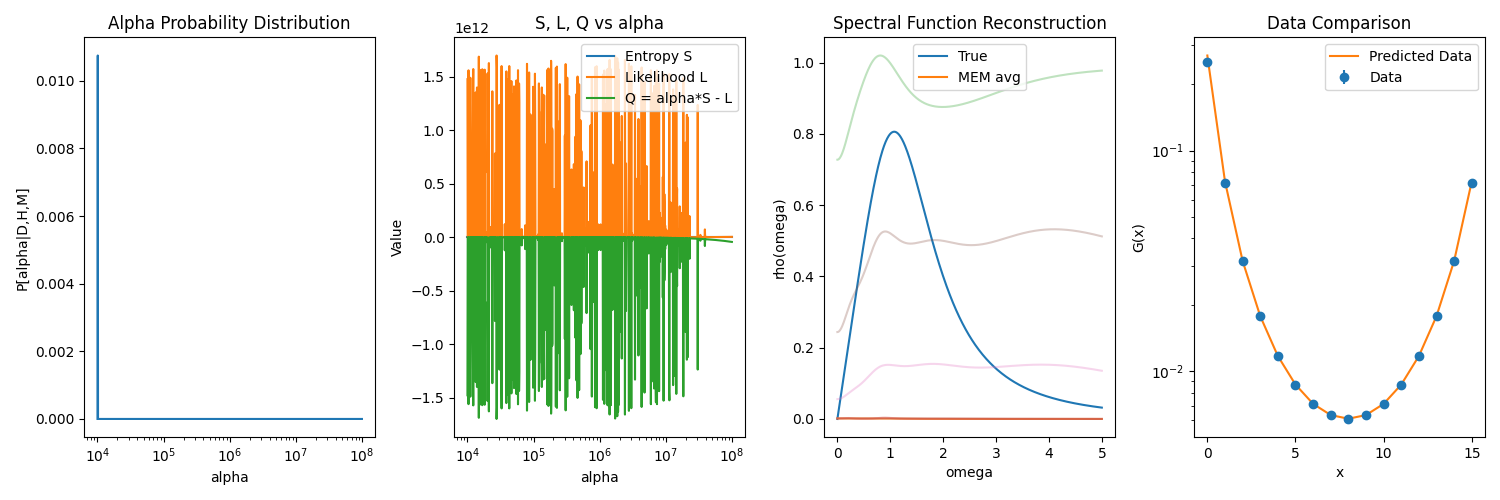
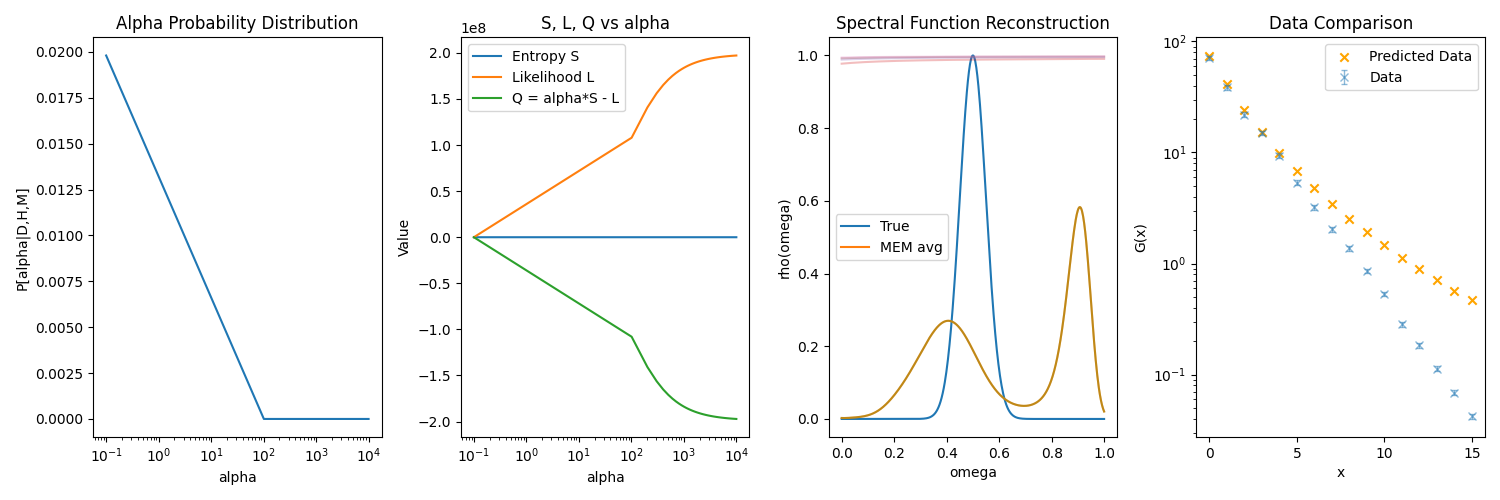
some changes to mem and playing around with the ex file

diff --git a/mem_ex.py b/mem_ex.py
@@ -3,6 +3,7 @@
 import numpy as np
 from scipy.optimize import root
 from scipy.linalg import svd
+from scipy.optimize import least_squares
 np.random.seed(3000)
 
 def KL_kernel_Position_FiniteT(Position, Omega,T):
@@ -53,8 +54,8 @@ def mem_bryan(K, d, m, alpha, err, max_iter=100):
     # Reduced space
     N_red = len(s)
     # Initial guess
-    #u0 = np.zeros(N_red)
-    u0 = np.random.rand(N_red)*0.1
+    u0 = np.zeros(N_red)
+    #u0 = np.random.rand(N_red)*0.1
 
     def func(u):
         # rho in model space
@@ -62,19 +63,23 @@ def mem_bryan(K, d, m, alpha, err, max_iter=100):
         # G = K @ rho
         G = K @ rho
         # Gradient in reduced space
-        grad = -alpha * u - np.diag(s) @ U.T @ np.diag(1/err**2) @ (G - d)
+        grad = -alpha * u - U.T @ (G - d)
         return grad
 
     def jac(u):
         rho = m * np.exp(Vh.T @ u)
         J = -alpha * np.eye(N_red)
-        J -= np.diag(s) @ U.T @ np.diag(1/err**2) @ K @ np.diag(rho) @ Vh.T
+        J -= U.T @ K @ np.diag(rho) @ Vh.T
         return J
+    
+    sol = root(func, u0, jac=jac, method='hybr', options={'maxfev': max_iter, 'xtol':1e-10})
 
-    sol = root(func, u0, jac=jac, method='lm')
-    print(sol.success)
-    print(sol.nfev)
-    print(sol.message)
+    if not sol.success:
+        print("Not converged:")
+        print(alpha)
+        print(sol.nfev)
+        print(sol.message)
+
     u_opt = sol.x
     rho_opt = m * np.exp(Vh.T @ u_opt)
     return rho_opt
@@ -122,18 +127,32 @@ def read_rho_data(filename):
 
 # Example usage:
 if __name__ == "__main__":
-    x, d, err = read_corr_data("/mnt/c/Users/chris/Desktop/mock-data-main/BW/mock_corr_BW_Nt16_noise3.dat")
-    omega, rho_true = read_rho_data("/mnt/c/Users/chris/Desktop/mock-data-main/BW/exact_spectral_function_BW.dat")
-    N_model = len(omega)
-    N_data = len(x)
+    realistic = False
+    if realistic:
+        x, d, err = read_corr_data("/mnt/c/Users/chris/Desktop/mock-data-main/BW/mock_corr_BW_Nt16_noise3.dat")
+        omega, rho_true = read_rho_data("/mnt/c/Users/chris/Desktop/mock-data-main/BW/exact_spectral_function_BW.dat")
+        N_model = len(omega)
+        N_data = len(x)
 
-    K=KL_kernel_Omega(KL_kernel_Position_FiniteT,x,omega,args=(1/N_data,))
-
+        K=KL_kernel_Omega(KL_kernel_Position_FiniteT,x,omega,args=(1/N_data,))
+    else:
+        N_data = 16
+        N_model = 500
+        x = np.linspace(0, 15, N_data)
+        omega = np.linspace(0, 1, N_model)
+        # Kernel: exponential decay
+        K = np.exp(-x[:, None] * omega[None, :])
+        # True spectral function: Gaussian
+        rho_true = np.exp(-0.5 * (omega - 0.5)**2 / 0.05**2)
+        # Data: K @ rho_true + noise
+        d = K @ rho_true
+        err = 0.05 * d * np.ones_like(d)
+        d = d + np.random.normal(0, err)
     m = np.ones(N_model)
     #m *= omega**2
     #m /= np.trapezoid(m, omega)
     # Regularization parameter
-    alpha = np.logspace(0,5,1000)
+    alpha = np.linspace(1e-1,1e4,100)
     rho_mem = np.zeros((len(alpha), N_model))
     # Run MEM
     for i in range(len(alpha)):
@@ -146,16 +165,22 @@ if __name__ == "__main__":
         S[i] = np.sum(rho - m - rho * np.log(rho / m))
         G = K @ rho
         diff = G - d
+        print(S[i])
         L[i] = 0.5 * np.sum((diff / err)**2)
 
     Q = alpha * S - L
-    hessian_eigenvalues = np.zeros((len(alpha), len(rho_mem[0])))
+    """hessian_eigenvalues = np.zeros((len(alpha), len(rho_mem[0])))
     P_alpha = np.zeros(len(alpha))
     for i in range(len(alpha)):
         Hessian = np.sqrt(np.diag(rho_mem[i])) @ K.T @ np.diag(1/err**2) @ K @ np.sqrt(np.diag(rho_mem[i]))
         hessian_eigenvalues[i, :len(np.linalg.eigvalsh(Hessian))] = np.linalg.eigvalsh(Hessian)
     
-    P_alpha, alpharegion = compute_P_alpha(alpha, S, L, hessian_eigenvalues)
+    P_alpha, alpharegion = compute_P_alpha(alpha, S, L, hessian_eigenvalues)"""
+    P_alpha = np.exp(Q - np.max(Q))  # For numerical stability
+    P_alpha /= np.trapz(P_alpha, alpha)  # Normalize
+
+    # Weighted average over alpha
+    alpharegion = alpha
 
     rho_final = np.trapezoid(rho_mem.T * P_alpha, alpharegion, axis=1)
 
@@ -186,8 +211,8 @@ if __name__ == "__main__":
     plt.ylabel('rho(omega)')
     plt.title('Spectral Function Reconstruction')
     plt.subplot(1,4,4)
-    plt.errorbar(x, d, yerr=err, fmt='o', label='Data')
-    plt.plot(x, K @ rho_final, label='Predicted Data')
+    plt.errorbar(x, d, yerr=err, fmt='x', label='Data', alpha=0.5, capsize=2, elinewidth=1)
+    plt.scatter(x, K @ rho_final, label='Predicted Data', marker = 'x', color='orange')
     plt.legend()
     plt.xlabel('x')
     plt.ylabel('G(x)')

diff --git a/mem/mem.py b/mem/mem.py
@@ -116,9 +116,6 @@ class mem:
             raise ValueError("Invalid choice spectral function target")
         return kernel
 
-    def partialL_partialG(self, G_rho: np.ndarray, corr: np.ndarray)-> np.ndarray:
-        return np.dot(self.cov_mat_inv, (G_rho - corr))
-
     def step1(self, corr: np.ndarray, kernel: np.ndarray) -> np.ndarray:
         V, xi, U = np.linalg.svd(kernel, full_matrices=False)
         U= U.T
@@ -128,13 +125,11 @@ class mem:
         U = U[:,:s]
         print("Singular space dimension:", s, "down from:", min(self.N_t, len(self.w)))
 
-        VXi = np.dot(V, np.diag(xi))
+        VXi = V @ np.diag(xi)
 
-        M = np.dot(VXi.T, np.dot(self.cov_mat_inv, VXi))
+        M = VXi.T @ self.cov_mat_inv @ VXi
         rho_min = np.zeros((len(self.alpha), len(self.w)))
-        S = np.zeros(len(self.alpha))
-        L = np.zeros(len(self.alpha))
-        Q = np.zeros(len(self.alpha))
+        S, L, Q = np.zeros(len(self.alpha)),np.zeros(len(self.alpha)),np.zeros(len(self.alpha))
         #u_g = np.zeros((M.shape[0]))
         u_g = np.random.rand(M.shape[0])
         #u_g[0] = 1
@@ -170,17 +165,17 @@ class mem:
     def minimizer(self,
                 corr: np.ndarray, VXi: np.ndarray, M: np.ndarray, U: np.ndarray, al: float, u_guess: np.ndarray, kernel: np.ndarray) -> np.ndarray:
         N_s = M.shape[0]
-        rho = self.def_model *np.exp(np.dot(U, u_guess))
+        rho = self.def_model *np.exp(U @ u_guess)
         
         def func(b):
-            rho = self.def_model *np.exp(np.dot(U, b))
-            G_rho = np.dot(VXi, np.dot(U.T, rho)) #Di(kernel, rho, self.delomega)
-            g = np.dot(VXi.T, self.partialL_partialG(G_rho, corr)) 
+            rho = self.def_model *np.exp(U @ b)
+            G_rho = Di(kernel, rho, self.delomega)
+            g = VXi.T @ self.cov_mat_inv @ (G_rho - corr)
             f = -al * b - g
             return f
         
         def jac(b):
-            rho = self.def_model *np.exp(np.dot(U, b))
+            rho = self.def_model *np.exp(U @ b)
             J = VXi.T @ self.cov_mat_inv @ VXi @ U.T @ np.diag(rho) @ U
             J += al * np.eye(N_s)
             return J
@@ -189,17 +184,16 @@ class mem:
         u = sol.x
         print(sol.message)
         print(sol.nfev)
-        dot_Uu = np.dot(U, u)
-        rho = self.def_model * np.exp(dot_Uu)
+        rho = self.def_model * np.exp(U @ u)
         return rho, sol.x, sol.success
 
     def step2(self, rho: np.ndarray, corr: np.ndarray, kernel: np.ndarray) -> np.ndarray:
         P_alphaHM = 1/self.alpha
         S, L, exp, prefactor = np.zeros(len(self.alpha)), np.zeros(len(self.alpha)), np.zeros(len(self.alpha)), np.zeros(len(self.alpha))
-        Hess_mat = np.dot(kernel.T, np.dot(self.cov_mat_inv, kernel))
         evs = np.zeros((len(self.alpha), len(self.w)))
+        Hess_mat = kernel.T @ self.cov_mat_inv @ kernel
         for i in range(len(self.alpha)):
-            lam_mat = np.dot(np.sqrt(np.diag(rho[i][:])), np.dot(Hess_mat, np.sqrt(np.diag(rho[i][:]))))
+            lam_mat = np.sqrt(np.diag(rho[i][:])) @ Hess_mat @ np.sqrt(np.diag(rho[i][:]))
             eigval, eigvec = np.linalg.eigh(lam_mat)
             evs[i][:] = eigval
             S[i] = np.sum(rho[i][:] - self.def_model) - np.nansum(rho[i][:]*np.log(rho[i][:]/self.def_model))
@@ -236,7 +230,7 @@ class mem:
 
         alpha_ind = []
         for i in range(len(self.alpha)):
-            if P_alphaDHM[i] >= 10**(-1) * P_alphaDHM.max():
+            if P_alphaDHM[i] >= 10e-1 * P_alphaDHM.max():
                 alpha_ind.append(i)
         alpha_int = np.zeros(len(alpha_ind))
         rho_red = np.zeros((len(alpha_ind), len(self.w)))
